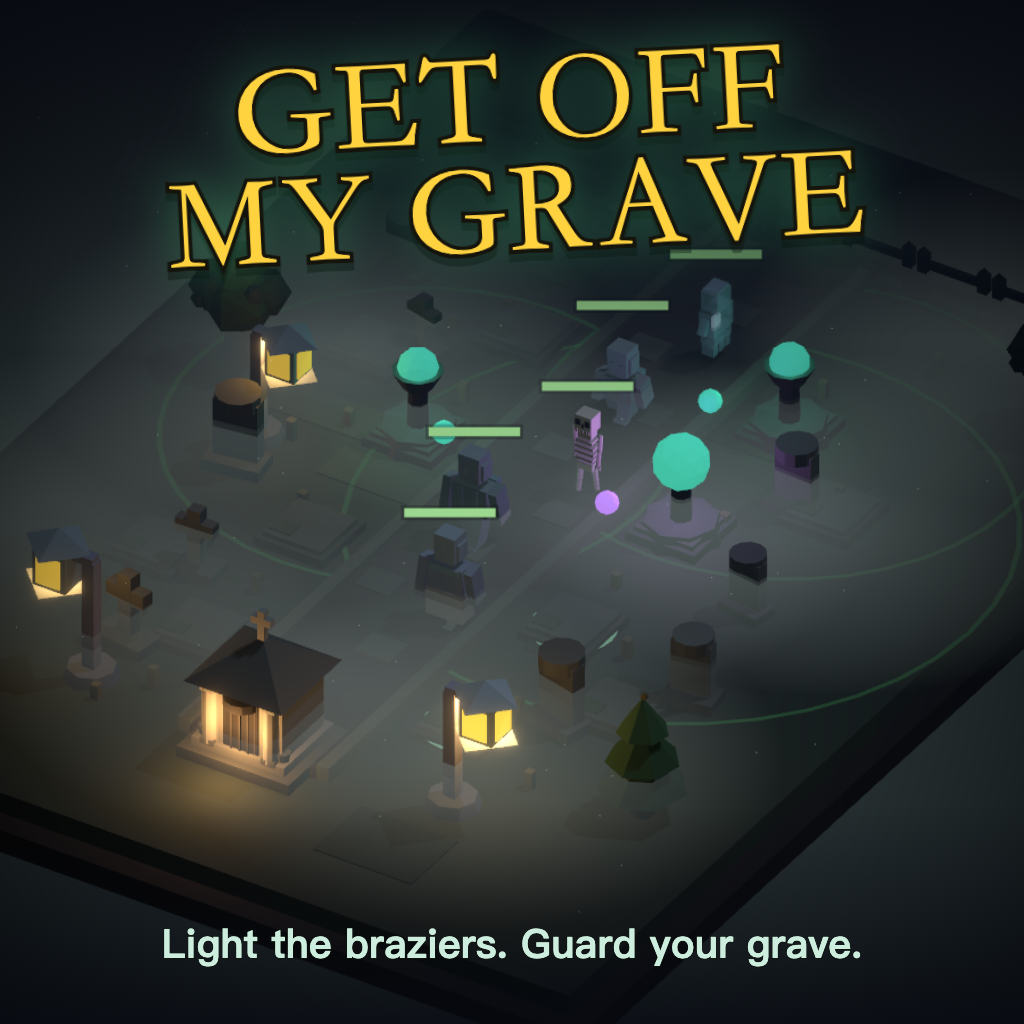
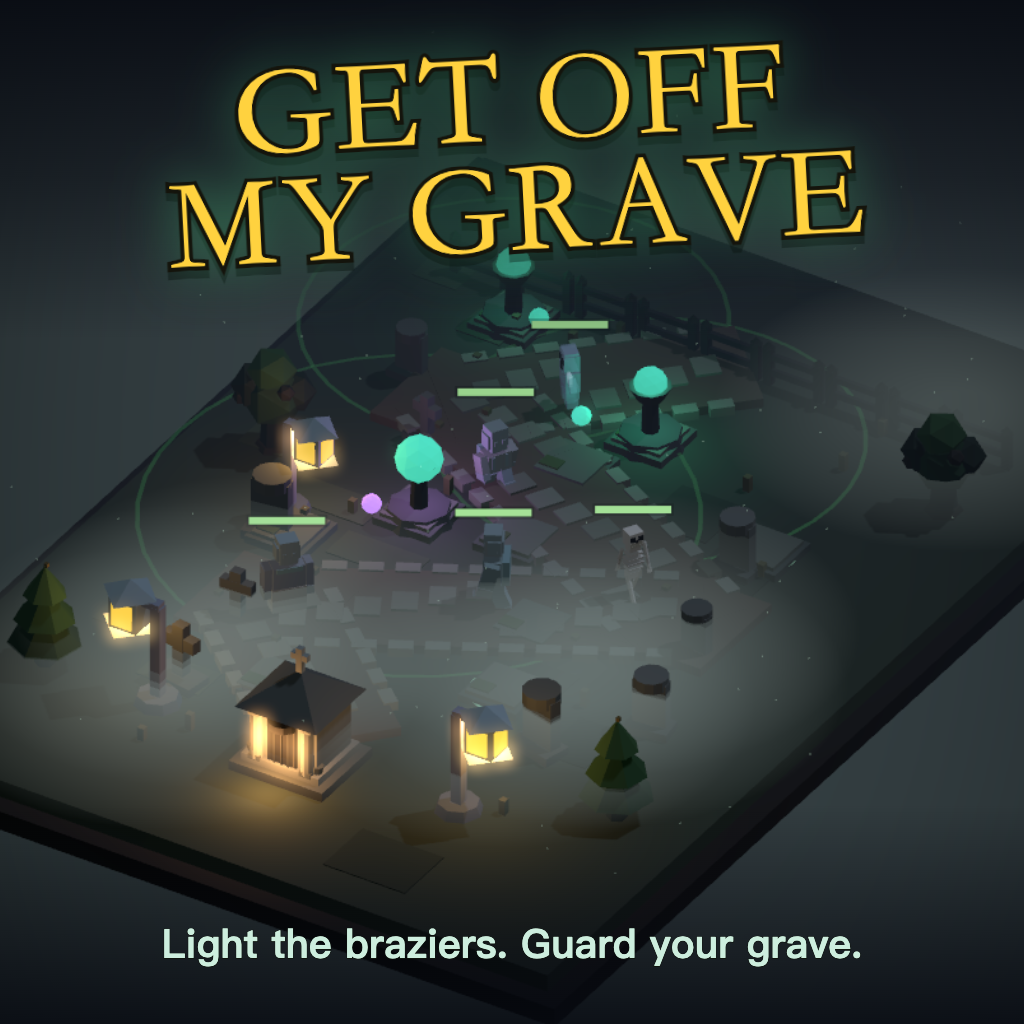
Winding path, pulled-back camera, mobile fog/noise fix
- Mobile fog noise fix: drop Bloom mipmapBlur (rainbow chroma noise in dark
  areas on mobile half-float) + raise threshold; lift sky/fog/ambient off
  near-black so 8-bit dark gradients stop banding.
- Camera pulled back (ortho zoom 78->58) so the whole board + plots read.
- Lane rebuilt as a winding waypoint path (enemies follow it by distance);
  pale cobbles + kerb edging so the route reads clearly; plots auto-flank the
  curves on stone pads. Regenerate poster.

diff --git a/src/Lawn/Scene.tsx b/src/Lawn/Scene.tsx
@@ -17,25 +17,56 @@ const UPGRADE_COST = (lvl: number) => 70 + lvl * 55;
 const TOWER_MAX_LVL = 4;
 const ENEMY_SCALE = 0.46;
 
-// Lane: a straight dirt path down the centre. Enemies walk +z toward the house.
-const SPAWN_Z = -7.2;
-const HOUSE_Z = 3.4;
-const LANE_HALF = 0.8;
-
-// Tower plots — two tidy ranks flanking the grave-path. Inner rank (close to the
-// path, 4 evenly-spaced rows) is the main defensive line; an outer rank (2 rows,
-// staggered) gives a second tier. Symmetric + aligned so it reads as a planned
-// cemetery, not scattered rings. Each plot sits on a visible stone build-pad.
-const PLOT_SPOTS: [number, number][] = [
-  // inner rank — left & right, 4 rows down the path
-  [-1.75, -4.2], [1.75, -4.2],
-  [-1.75, -1.9], [1.75, -1.9],
-  [-1.75, 0.4], [1.75, 0.4],
-  [-1.75, 2.7], [1.75, 2.7],
-  // outer rank — staggered between the inner rows
-  [-3.05, -3.05], [3.05, -3.05],
-  [-3.05, 1.55], [3.05, 1.55],
+// ── Winding grave-path: a snaking route from the gate (top) to the crypt (front).
+// A circuitous path = more fun TD (towers in the bend pockets cover several
+// segments). Enemies follow it by cumulative distance.
+const PATH: [number, number][] = [
+  [0.0, -6.9],
+  [-2.6, -4.3],
+  [2.6, -1.5],
+  [-2.3, 1.2],
+  [0.0, 3.2],
 ];
+const HOUSE_Z = PATH[PATH.length - 1][1]; // crypt sits at the path's end
+const SPAWN_Z = PATH[0][1];                // gate end (decor scatter reference)
+const LANE_HALF = 0.78;                    // perpendicular spread of enemies on the path
+
+interface PathSeg { ax: number; az: number; dx: number; dz: number; len: number; }
+const PATH_SEGS: PathSeg[] = PATH.slice(1).map((b, i) => {
+  const a = PATH[i]; const dx = b[0] - a[0], dz = b[1] - a[1];
+  const len = Math.hypot(dx, dz) || 1e-6;
+  return { ax: a[0], az: a[1], dx: dx / len, dz: dz / len, len };
+});
+const PATH_TOTAL = PATH_SEGS.reduce((s, g) => s + g.len, 0);
+/** World pose at distance d along the path: position + forward dir + left normal. */
+function posAlong(d: number) {
+  let rem = Math.max(0, d);
+  for (let i = 0; i < PATH_SEGS.length; i++) {
+    const s = PATH_SEGS[i];
+    if (rem <= s.len || i === PATH_SEGS.length - 1) {
+      const t = Math.min(rem, s.len);
+      return { x: s.ax + s.dx * t, z: s.az + s.dz * t, dx: s.dx, dz: s.dz, px: -s.dz, pz: s.dx };
+    }
+    rem -= s.len;
+  }
+  const s = PATH_SEGS[PATH_SEGS.length - 1];
+  return { x: s.ax + s.dx * s.len, z: s.az + s.dz * s.len, dx: s.dx, dz: s.dz, px: -s.dz, pz: s.dx };
+}
+
+// Tower plots flank the winding path in tidy symmetric pairs (computed from the
+// path so they always hug the curves). Each sits on a stone build-pad.
+const PLOT_SPOTS: [number, number][] = (() => {
+  const spots: [number, number][] = [];
+  for (const frac of [0.14, 0.31, 0.48, 0.65, 0.82]) {
+    const p = posAlong(frac * PATH_TOTAL);
+    for (const side of [-1, 1]) {
+      const x = p.x + p.px * side * 1.8;
+      const z = p.z + p.pz * side * 1.8;
+      if (Math.abs(x) < 4.7) spots.push([+x.toFixed(2), +z.toFixed(2)]);
+    }
+  }
+  return spots;
+})();
 
 // ─── Intruder roster — the funny lawn invaders ──────────────────────────────
 interface IntruderDef {
@@ -78,7 +109,9 @@ function poolForWave(w: number): IntruderDef[] {
 // ─── Entity types ───────────────────────────────────────────────────────────
 interface Enemy {
   g: THREE.Group; def: IntruderDef;
-  x: number; z: number; laneOff: number;
+  dist: number;            // distance travelled along the winding path
+  x: number; z: number;    // current world position (path + perp offset)
+  laneOff: number;         // perpendicular offset on the path
   hp: number; maxHp: number; spd: number;
   phase: number; dead: boolean; reached: boolean;
   slow: number; // remaining slow timer (sec)
@@ -187,16 +220,16 @@ function World({ mode, onHud, onWave, onGameOver, registerRestart }: Props) {
   // camera setup — orthographic iso diorama (premium clean-iso look)
   useEffect(() => {
     const cam = camera as THREE.OrthographicCamera;
-    cam.position.set(8.5, 11.5, 12.5);
-    cam.zoom = 78; cam.near = 0.1; cam.far = 200;
-    cam.lookAt(0, 0.3, -1.1);
+    cam.position.set(9.0, 12.0, 13.0);
+    cam.zoom = 58; cam.near = 0.1; cam.far = 200;   // pulled back so the whole winding path + plots read
+    cam.lookAt(0, 0.2, -1.4);
     cam.updateProjectionMatrix();
   }, [camera]);
 
   // build the static board once
   useEffect(() => {
     scene.add(makeSkyDome());
-    scene.fog = new THREE.Fog(0x141c28, 11, 30); // dense graveyard mist
+    scene.fog = new THREE.Fog(0x1e2632, 14, 36); // graveyard mist (lifted off black to kill mobile banding)
     buildBoard(root, S.current);
     const motes = makeMotes(); scene.add(motes); S.current.motes = motes;
     const mist = makeGroundMist(); scene.add(mist); S.current.mist = mist;
@@ -272,9 +305,9 @@ function World({ mode, onHud, onWave, onGameOver, registerRestart }: Props) {
       }
       startWave(st, onWave);
       const dbgPool = poolForWave(3);
-      [-5, -3.5, -2, -0.5, 1].forEach((z, i) => {
+      [0.12, 0.3, 0.48, 0.66, 0.84].forEach((frac, i) => {
         spawnEnemy(root, st, dbgPool[i % dbgPool.length]);
-        st.enemies[st.enemies.length - 1].z = z;
+        st.enemies[st.enemies.length - 1].dist = frac * PATH_TOTAL;
       });
     }
     // eslint-disable-next-line react-hooks/exhaustive-deps
@@ -353,15 +386,19 @@ function World({ mode, onHud, onWave, onGameOver, registerRestart }: Props) {
       }
     }
 
-    // ── enemies march ──
+    // ── enemies march along the winding path ──
     for (const en of st.enemies) {
       if (en.dead) continue;
       let spd = en.spd;
       if (en.slow > 0) { en.slow -= dt; spd *= 0.5; }
-      en.z += spd * dt;
+      en.dist += spd * dt;
       en.phase += dt * spd * 3.2;
-      const gx = en.laneOff;
-      en.g.position.set(gx, 0, en.z);
+      const p = posAlong(en.dist);
+      en.x = p.x + p.px * en.laneOff;
+      en.z = p.z + p.pz * en.laneOff;
+      const bob = en.def.legs ? Math.abs(Math.sin(en.phase)) * 0.04 : Math.abs(Math.sin(en.phase)) * 0.09;
+      en.g.position.set(en.x, bob, en.z);
+      en.g.rotation.y = Math.atan2(p.dx, p.dz); // face along the path
       // walk anim
       if (en.def.legs) {
         const rig = rigOf(en.g);
@@ -370,13 +407,10 @@ function World({ mode, onHud, onWave, onGameOver, registerRestart }: Props) {
         if (rig?.legR) rig.legR.rotation.x = -sw;
         if (rig?.armL) rig.armL.rotation.x = -sw * 0.7;
         if (rig?.armR) rig.armR.rotation.x = sw * 0.7;
-        en.g.position.y = Math.abs(Math.sin(en.phase)) * 0.04;
-      } else {
-        en.g.position.y = Math.abs(Math.sin(en.phase)) * 0.09;
       }
-      if (en.hpBar) en.hpBar.position.set(gx, 1.5 * en.def.scale * ENEMY_SCALE + 0.9, en.z);
-      // reached the house
-      if (en.z >= HOUSE_Z) {
+      if (en.hpBar) en.hpBar.position.set(en.x, 1.5 * en.def.scale * ENEMY_SCALE + 0.9, en.z);
+      // reached the crypt
+      if (en.dist >= PATH_TOTAL) {
         en.reached = true; en.dead = true;
         if (isAttract) { continue; } // demo: harmless, no life loss
         st.lives -= 1; st.houseFlash = 0.5; sfx.reachHouse();
@@ -391,15 +425,15 @@ function World({ mode, onHud, onWave, onGameOver, registerRestart }: Props) {
       // brazier flame flicker → restless pool of light
       tw.flicker += dt * 11;
       if (tw.light) tw.light.intensity = (5 + tw.level * 1.6) * (0.78 + 0.22 * Math.sin(tw.flicker) + 0.08 * Math.sin(tw.flicker * 2.7));
-      // find nearest live enemy in range (prefer most advanced = highest z)
-      let best: Enemy | null = null; let bestZ = -Infinity;
+      // in-range enemy that is furthest along the path (closest to the crypt)
+      let best: Enemy | null = null; let bestD = -Infinity;
       for (const en of st.enemies) {
         if (en.dead) continue;
-        const dx = en.laneOff - tw.x, dz = en.z - tw.z;
-        if (dx * dx + dz * dz <= tw.range * tw.range && en.z > bestZ) { best = en; bestZ = en.z; }
+        const dx = en.x - tw.x, dz = en.z - tw.z;
+        if (dx * dx + dz * dz <= tw.range * tw.range && en.dist > bestD) { best = en; bestD = en.dist; }
       }
       if (best) {
-        const desired = Math.atan2(best.laneOff - tw.x, best.z - tw.z);
+        const desired = Math.atan2(best.x - tw.x, best.z - tw.z);
         tw.yaw += angDelta(tw.yaw, desired) * Math.min(1, dt * 12);
         tw.head.rotation.y = tw.yaw;
         if (tw.cd <= 0) {
@@ -413,7 +447,7 @@ function World({ mode, onHud, onWave, onGameOver, registerRestart }: Props) {
     // ── projectiles ──
     for (const pr of st.projs) {
       const en = pr.target;
-      if (!en.dead) { pr.tx = en.laneOff; pr.tz = en.z; pr.ty = 0.5; }
+      if (!en.dead) { pr.tx = en.x; pr.tz = en.z; pr.ty = 0.5; }
       const dx = pr.tx - pr.x, dy = pr.ty - pr.y, dz = pr.tz - pr.z;
       const d = Math.hypot(dx, dy, dz);
       const step = 16 * dt;
@@ -466,20 +500,32 @@ function buildBoard(root: THREE.Group, st: any) {
     flatify(moss, { cast: false, receive: true }); root.add(moss);
   }
 
-  // cobbled grave-path down the lane (dark earth + mossy stone edging)
-  const pathLen = (HOUSE_Z + 1.0) - (SPAWN_Z - 0.2);
-  const pathMid = (SPAWN_Z - 0.2 + HOUSE_Z + 1.0) / 2;
-  const dirt = box(1.8, 0.16, pathLen, 0x39342c, 0, 0.06, pathMid);
-  flatify(dirt, { cast: false, receive: true }); root.add(dirt);
-  for (const sx of [-1, 1]) {
-    const edge = box(0.16, 0.22, pathLen, 0x565d4b, sx * 0.92, 0.1, pathMid);
-    flatify(edge, { cast: false, receive: true }); root.add(edge);
+  // winding cobbled grave-path — a lit dirt band per segment + bend-fills, with
+  // pale stone edging so the route reads clearly against the dark ground
+  for (const s of PATH_SEGS) {
+    const midx = s.ax + s.dx * s.len / 2, midz = s.az + s.dz * s.len / 2;
+    const band = box(1.78, 0.16, s.len + 0.6, 0x564a3a, midx, 0.06, midz);
+    band.rotation.y = Math.atan2(s.dx, s.dz);
+    flatify(band, { cast: false, receive: true }); root.add(band);
   }
-  for (let k = 0; k < 10; k++) {                    // cobblestones
-    const cx = ((k * 3.1) % 1.2) - 0.6;
-    const cz = SPAWN_Z + 0.4 + k * 1.1;
-    const stone = box(0.46, 0.06, 0.4, k % 2 ? 0x4a4d42 : 0x55594c, cx, 0.14, cz);
+  for (let i = 1; i < PATH.length - 1; i++) {        // fill the bend joints
+    const fill = box(1.82, 0.16, 1.82, 0x564a3a, PATH[i][0], 0.058, PATH[i][1]);
+    flatify(fill, { cast: false, receive: true }); root.add(fill);
+  }
+  for (let d = 0.3; d < PATH_TOTAL; d += 0.5) {       // cobbles + pale edging
+    const p = posAlong(d);
+    const off = ((d * 1.7) % 1.0) - 0.5;
+    const cx = p.x + p.px * off, cz = p.z + p.pz * off;
+    const stone = box(0.42, 0.06, 0.36, (d | 0) % 2 ? 0x6b6e5d : 0x787b69, cx, 0.15, cz);
+    stone.rotation.y = Math.atan2(p.dx, p.dz);
     flatify(stone, { cast: false, receive: true }); root.add(stone);
+    // pale kerb stones on both edges
+    for (const side of [-1, 1]) {
+      const ex = p.x + p.px * side * 0.92, ez = p.z + p.pz * side * 0.92;
+      const kerb = box(0.2, 0.14, 0.34, 0x7d8270, ex, 0.1, ez);
+      kerb.rotation.y = Math.atan2(p.dx, p.dz);
+      flatify(kerb, { cast: false, receive: true }); root.add(kerb);
+    }
   }
 
   // dead-grass tufts beside the path
@@ -563,10 +609,10 @@ function buildBoard(root: THREE.Group, st: any) {
 function makePad(x: number, z: number): THREE.Group {
   const g = new THREE.Group();
   g.position.set(x, 0, z);
-  g.add(flatify(box(0.92, 0.12, 0.92, 0x3c4138, 0, 0.06, 0), { cast: false, receive: true }));
-  g.add(flatify(box(0.78, 0.1, 0.78, 0x4a5044, 0, 0.13, 0), { cast: false, receive: true }));
+  g.add(flatify(box(0.92, 0.12, 0.92, 0x4e554a, 0, 0.06, 0), { cast: false, receive: true }));
+  g.add(flatify(box(0.78, 0.1, 0.78, 0x646b5b, 0, 0.13, 0), { cast: false, receive: true }));
   // a touch of moss on two corners
-  g.add(flatify(box(0.3, 0.03, 0.22, 0x3a4a30, -0.22, 0.19, 0.2), { cast: false, receive: true }));
+  g.add(flatify(box(0.3, 0.03, 0.22, 0x47592f, -0.22, 0.19, 0.2), { cast: false, receive: true }));
   return g;
 }
 
@@ -714,17 +760,17 @@ function spawnEnemy(root: THREE.Group, st: any, def: IntruderDef) {
   g.scale.setScalar(s);
   flatify(g);
   const laneOff = (Math.random() - 0.5) * (LANE_HALF * 1.5);
-  g.position.set(laneOff, 0, SPAWN_Z);
-  // characters face +Z by default; quadruped animals face +X → rotate to +Z
-  g.rotation.y = def.legs ? 0 : -Math.PI / 2;
+  const p = posAlong(0);
+  const x = p.x + p.px * laneOff, z = p.z + p.pz * laneOff;
+  g.position.set(x, 0, z);
+  g.rotation.y = Math.atan2(p.dx, p.dz); // face along the path
   root.add(g);
   const hpBar = makeHpBar();
   drawHpBar(hpBar, 1);
-  // hpBar added to fx layer so it renders over geometry
   st.fxLayer.add(hpBar);
   const hpScaled = Math.round(def.hp * (1 + st.wave * 0.12));
   const en: Enemy = {
-    g, def, x: laneOff, z: SPAWN_Z, laneOff,
+    g, def, dist: 0, x, z, laneOff,
     hp: hpScaled, maxHp: hpScaled, spd: def.spd, phase: Math.random() * 6,
     dead: false, reached: false, slow: 0, hpBar,
   };
@@ -748,7 +794,7 @@ function fireWater(fx: THREE.Group, st: any, tw: Tower, target: Enemy) {
   g.castShadow = false;
   g.position.set(tw.x, 1.0, tw.z);
   fx.add(g);
-  st.projs.push({ g, x: tw.x, y: 1.0, z: tw.z, tx: target.laneOff, ty: 0.5, tz: target.z, target, dmg: tw.dmg });
+  st.projs.push({ g, x: tw.x, y: 1.0, z: tw.z, tx: target.x, ty: 0.5, tz: target.z, target, dmg: tw.dmg });
 }
 
 interface Particle { m: THREE.Mesh; vx: number; vy: number; vz: number; life: number; }
@@ -860,9 +906,9 @@ function makeSkyDome(): THREE.Mesh {
     new THREE.ShaderMaterial({
       side: THREE.BackSide, depthWrite: false, fog: false,
       uniforms: {
-        top: { value: new THREE.Color(0x080b16) },   // near-black navy crown
-        mid: { value: new THREE.Color(0x161f31) },   // deep night blue
-        bot: { value: new THREE.Color(0x26302e) },   // murky grey-green horizon mist
+        top: { value: new THREE.Color(0x12161f) },   // lifted navy crown (off near-black → no mobile banding)
+        mid: { value: new THREE.Color(0x1d2738) },   // deep night blue
+        bot: { value: new THREE.Color(0x2d3736) },   // murky grey-green horizon mist
         glow: { value: new THREE.Color(0x8ea2c2) },  // pale cold moon glow
         glowDir: { value: new THREE.Vector3(0.25, 0.42, -0.8).normalize() },
       },
@@ -939,8 +985,8 @@ function Lights() {
   }, []);
   return (
     <>
-      <hemisphereLight args={[0x46587a, 0x10140f, 0.6]} />
-      <ambientLight intensity={0.14} />
+      <hemisphereLight args={[0x52638a, 0x161a14, 0.66]} />
+      <ambientLight intensity={0.2} />
       {/* cold moonlight key (casts the long graveyard shadows) */}
       <directionalLight
         ref={keyRef}
@@ -974,8 +1020,10 @@ export default function Scene(props: Props) {
       <Lights />
       <World {...props} />
       <EffectComposer>
-        <Bloom mipmapBlur intensity={0.85} luminanceThreshold={0.5} luminanceSmoothing={0.22} />
-        <Vignette eskil={false} offset={0.12} darkness={0.86} />
+        {/* no mipmapBlur — it produces rainbow chroma noise in dark areas on mobile
+            half-float buffers. Higher threshold keeps the dark ground out of bloom. */}
+        <Bloom intensity={0.7} luminanceThreshold={0.62} luminanceSmoothing={0.25} />
+        <Vignette eskil={false} offset={0.2} darkness={0.62} />
       </EffectComposer>
     </Canvas>
   );